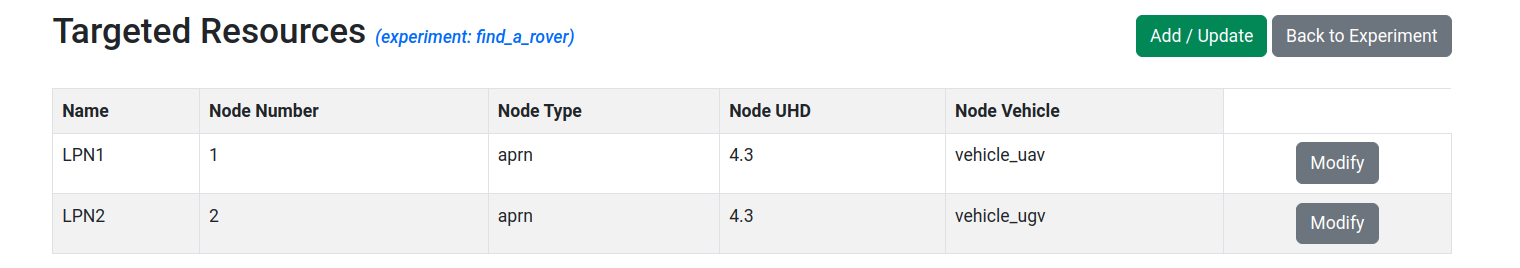
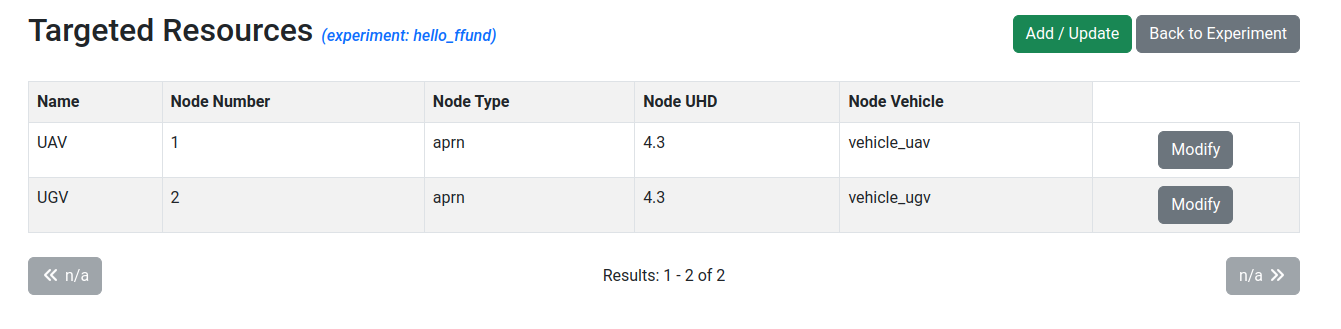
Update instructions now that the order may be different

diff --git a/index.md b/index.md
@@ -221,15 +221,16 @@ Click on the "Update" button next to "Members".
 
 Then click "Save". (Your advisor and team members will only have access to your experiment resources if you added them to the experiment at this stage - before deploying the resources.)
 
-Back on the experiment page, click on the "Update" button next to "Targeted Resources". On this page, you will add two resources to the experiment (in the specified order): first select LPN1 (this will be the UAV, which is assumed to be the first vehicle in the rest of the instructions) and then select LPN2 (this will be the UGV, which is assumed to be the second vehicle in the rest of the instructions):
+Back on the experiment page, click on the "Update" button next to "Targeted Resources". On this page, you will add two resources to the experiment: first select LPN1, then select LPN2.
 
 
 Click "Save". Then, you will modify each of the nodes by clicking "Modify" - 
 
 ![Configure resources](images/configure-resource.png)
 
-* for node 1 (LPN1), change the "Node Vehicle" property to "vehicle_uav" and click "Save"
-* for node 2 (LPN2), change the "Node Vehicle" property to "vehicle_ugv" and click "Save"
+* for node number 1 (this will be the UAV, which is assumed to be the first vehicle in the rest of the instructions), change the name to "UAV", change the "Node Vehicle" property to "vehicle_uav" and click "Save"
+* for node number 2 (this will be the UGV, which is assumed to be the second vehicle in the rest of the instructions), change the name to "UGV", change the "Node Vehicle" property to "vehicle_ugv" and click "Save"
+
 
 Click "Back to Experiment", then "Initiate Development".
 
